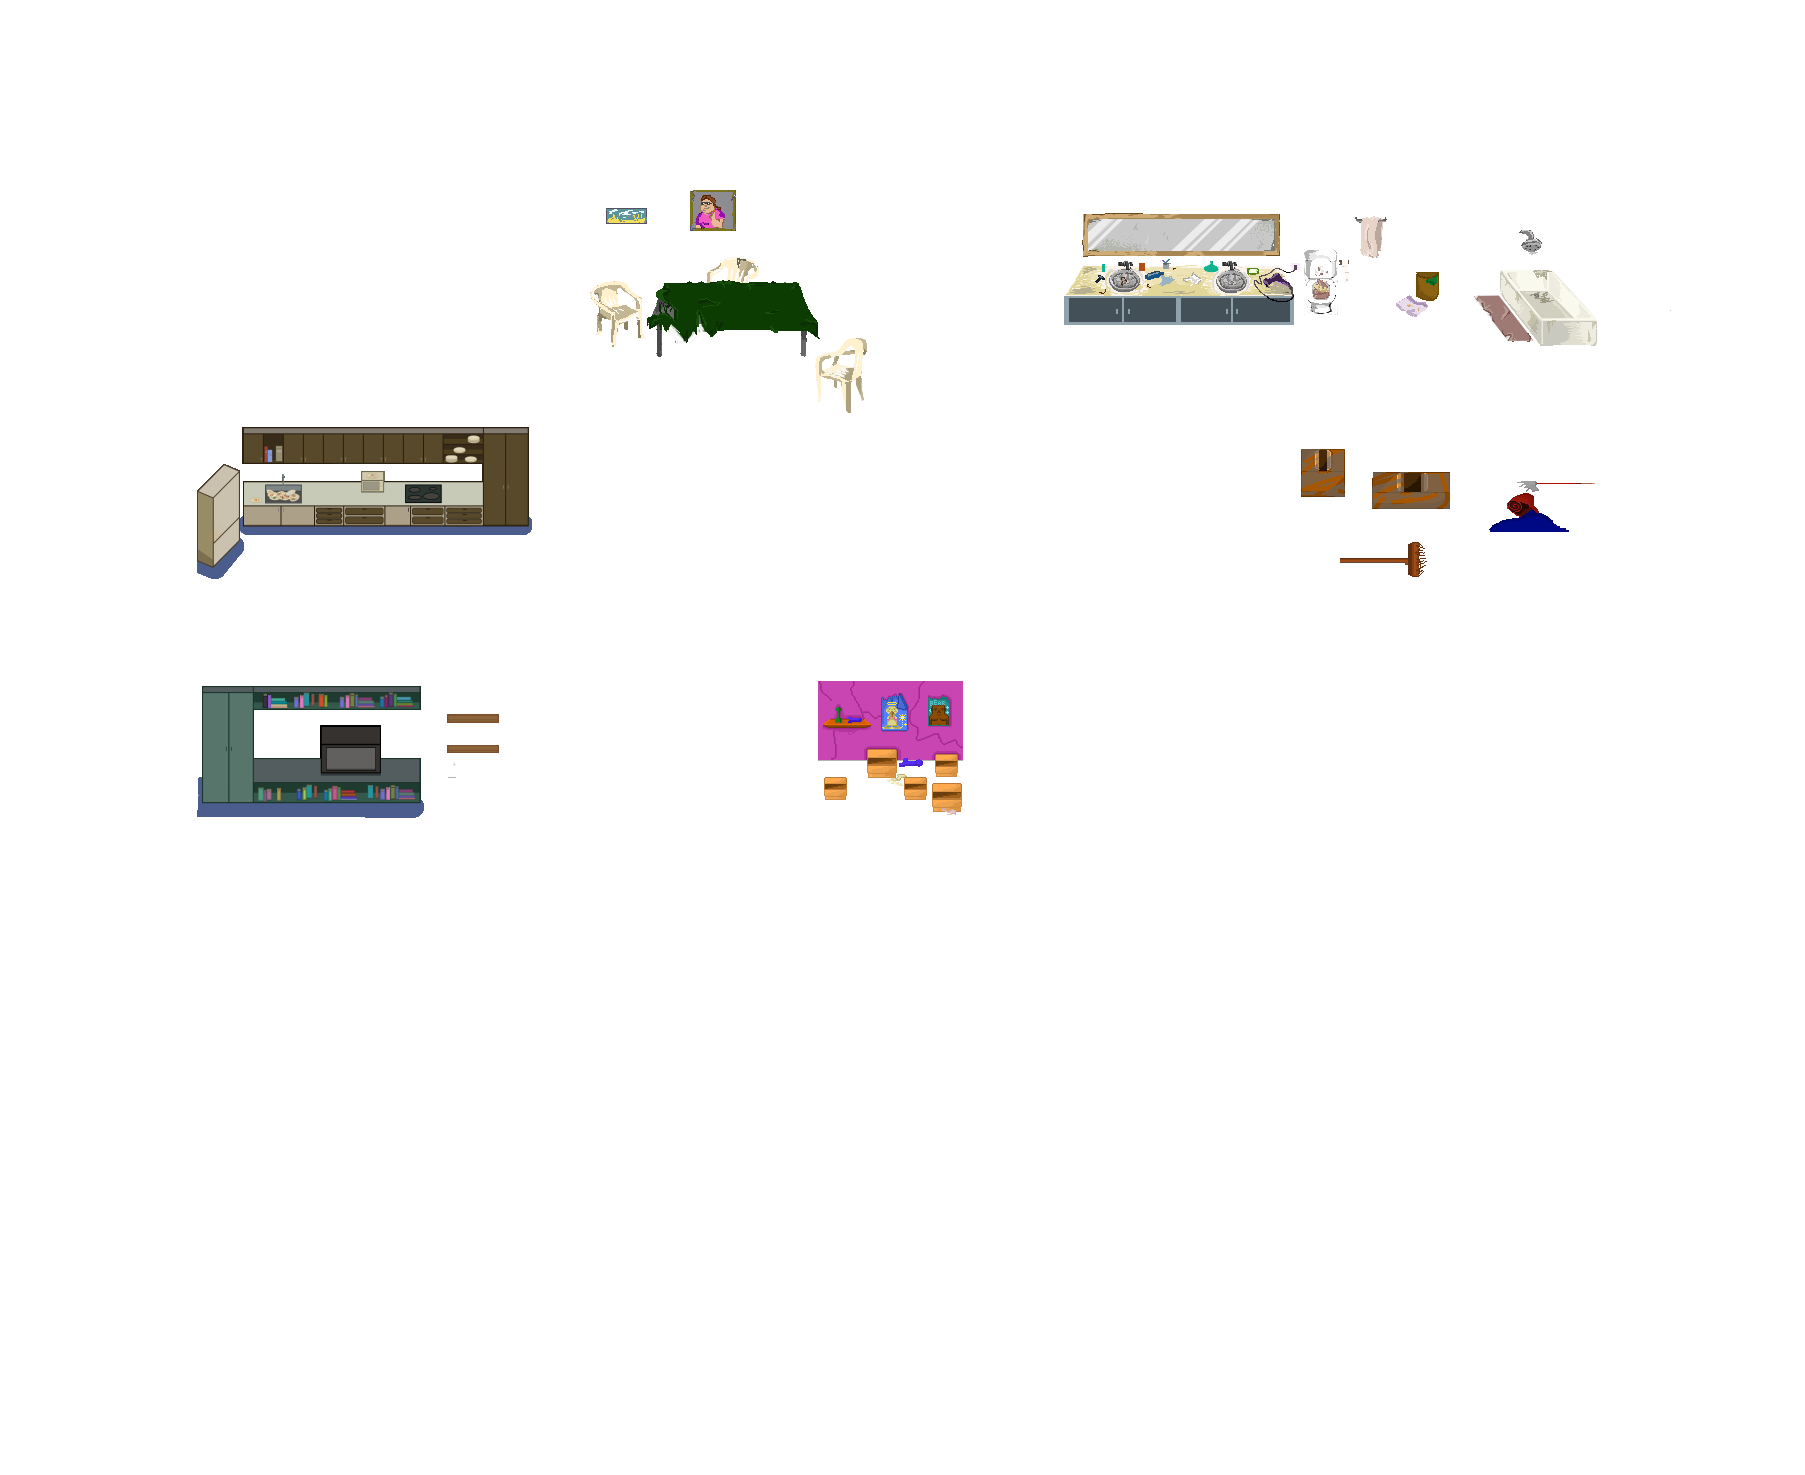
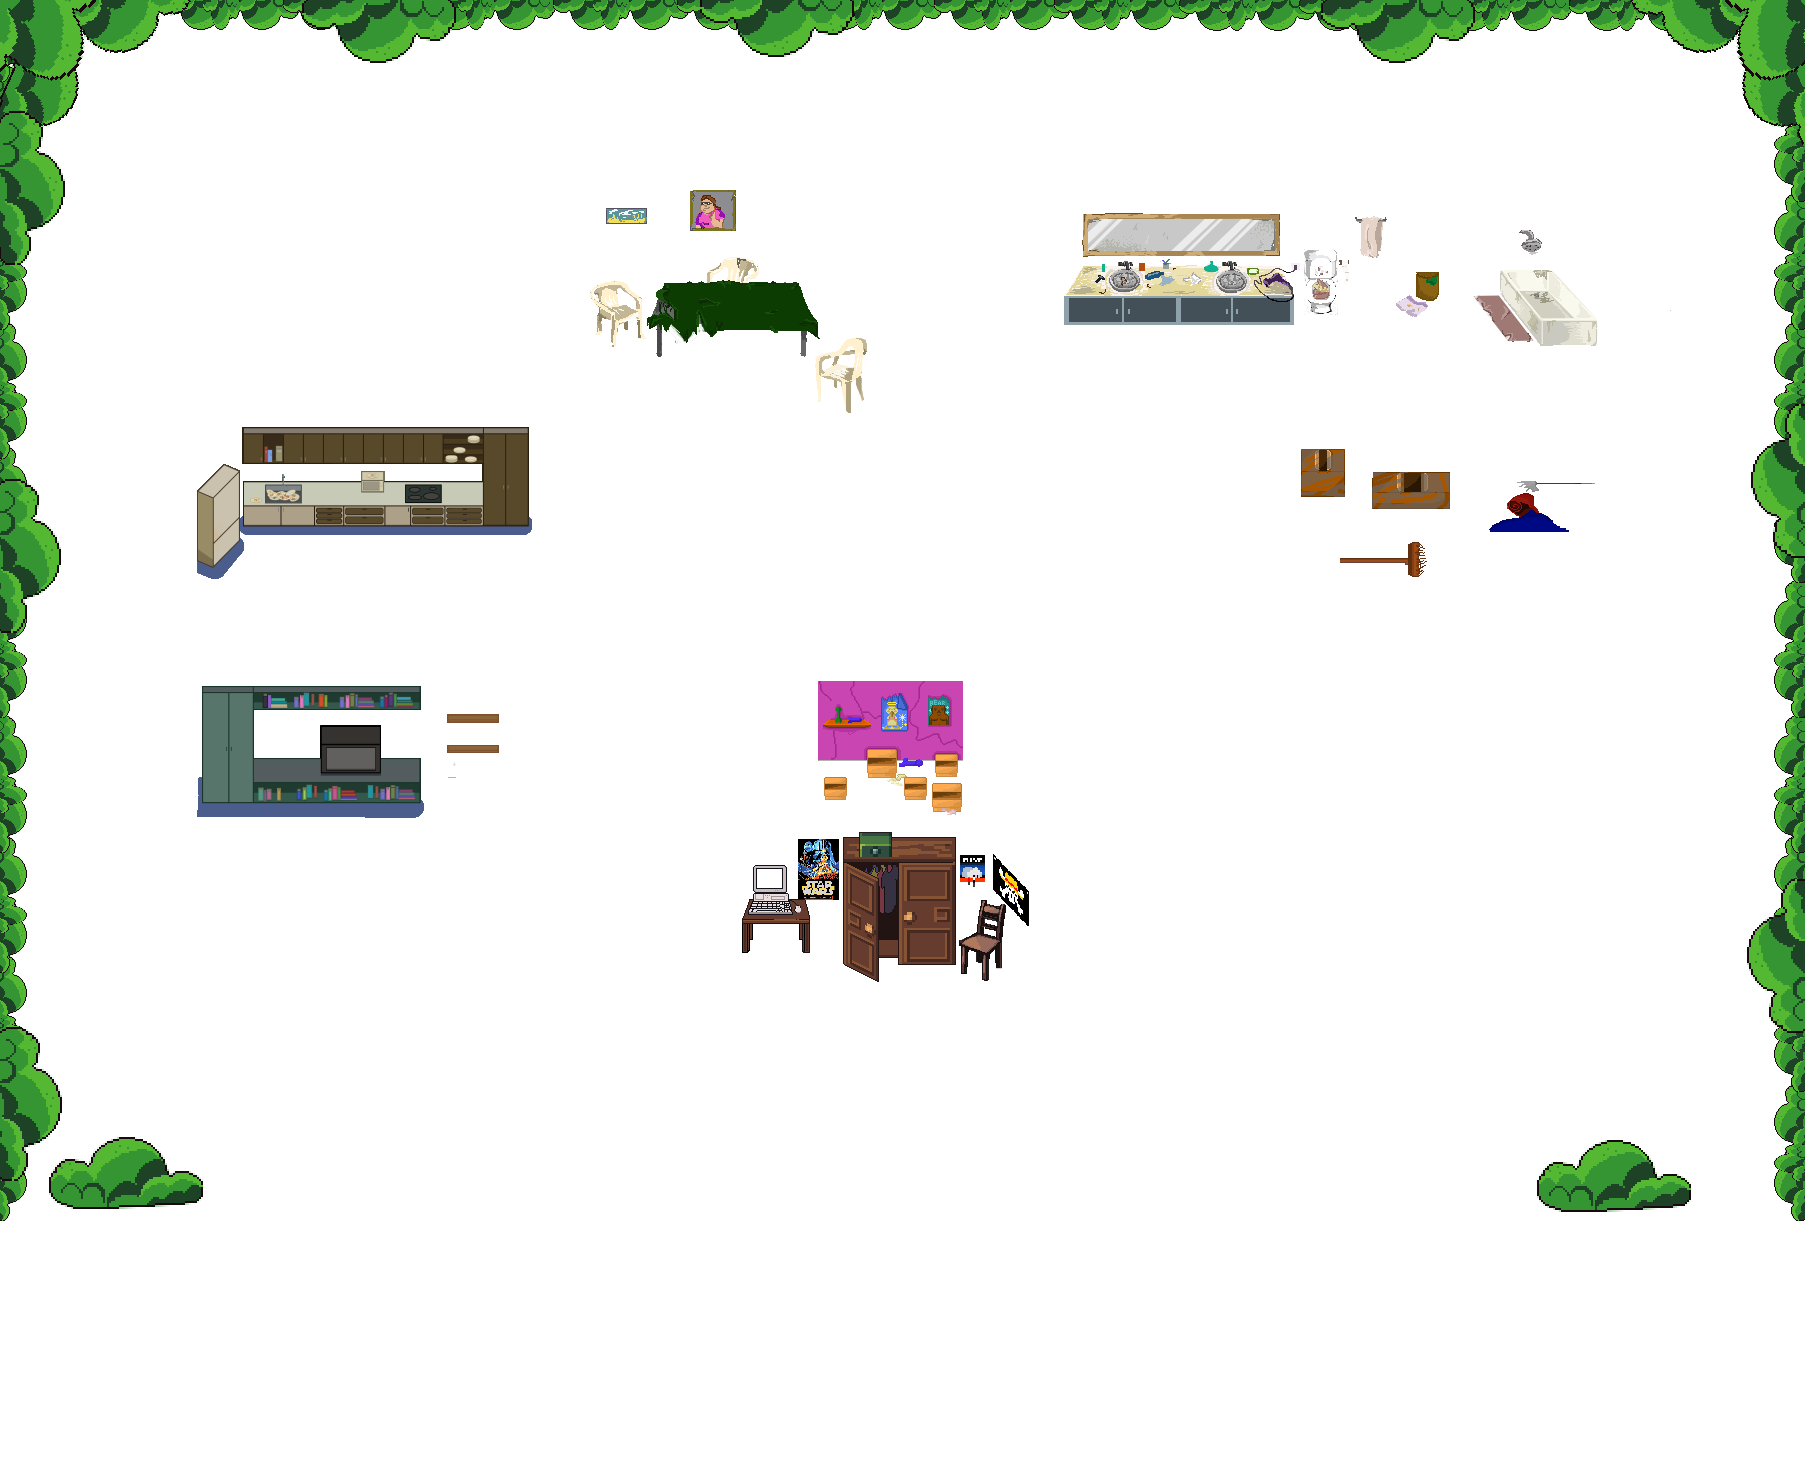
v6.1

Changed region(s): [[0.0, 0.0, 1.0, 0.842], [0.4033, 0.5614, 0.5895, 0.6861], [0.8377, 0.7485, 0.9307, 0.842]]

diff --git a/Assets/Graphics/Colectables/FlashingObject.cs b/Assets/Graphics/Colectables/FlashingObject.cs
@@ -1,0 +1,51 @@
+using System.Collections;
+using System.Collections.Generic;
+using UnityEngine;
+
+public class FlashingObject : MonoBehaviour
+{
+    public float flashDuration = 1.0f; // Duración de un ciclo completo (aumento y disminución de brillo)
+    public Color flashColor = Color.yellow; // Color del brillo
+    private SpriteRenderer spriteRenderer; // Referencia al componente SpriteRenderer
+    private Color originalColor; // Color original del sprite
+
+    void Start()
+    {
+        spriteRenderer = GetComponent<SpriteRenderer>();
+        if (spriteRenderer == null)
+        {
+            Debug.LogError("No se encontró un componente SpriteRenderer en el objeto.");
+            return;
+        }
+
+        originalColor = spriteRenderer.color;
+
+        // Iniciar el efecto de titileo
+        StartCoroutine(Flash());
+    }
+
+    IEnumerator Flash()
+    {
+        while (true)
+        {
+            // Aumentar el brillo
+            yield return StartCoroutine(ChangeColor(originalColor, flashColor, flashDuration / 2));
+            // Disminuir el brillo
+            yield return StartCoroutine(ChangeColor(flashColor, originalColor, flashDuration / 2));
+        }
+    }
+
+    IEnumerator ChangeColor(Color startColor, Color endColor, float duration)
+    {
+        float elapsed = 0f;
+
+        while (elapsed < duration)
+        {
+            spriteRenderer.color = Color.Lerp(startColor, endColor, elapsed / duration);
+            elapsed += Time.deltaTime;
+            yield return null;
+        }
+
+        spriteRenderer.color = endColor;
+    }
+}

diff --git a/Assets/Scritpts/MoscaScript.cs b/Assets/Scritpts/MoscaScript.cs
@@ -14,6 +14,9 @@ public class MoscaScript : MonoBehaviour
     // Objeto a activar en el inspector
     public GameObject objetoAActivar;
 
+    // Prefab a clonar
+    public GameObject prefabAClonar;
+
     // Lista de tags requeridos
     private HashSet<string> requiredTags = new HashSet<string> { "Hamburguesa", "Kebab", "Pizza", "Cereales", "Chees" };
     // Lista de tags tocados
@@ -59,6 +62,12 @@ public class MoscaScript : MonoBehaviour
         {
             // Añadir el tag a la lista de tocados si es uno de los requeridos
             touchedTags.Add(col.gameObject.tag);
+
+            // Clonar el prefab 10 veces
+            for (int i = 0; i < 10; i++)
+            {
+                Instantiate(prefabAClonar, transform.position, Quaternion.identity);
+            }
 
             // Verificar si todos los tags requeridos han sido tocados
             if (touchedTags.Count == requiredTags.Count)
